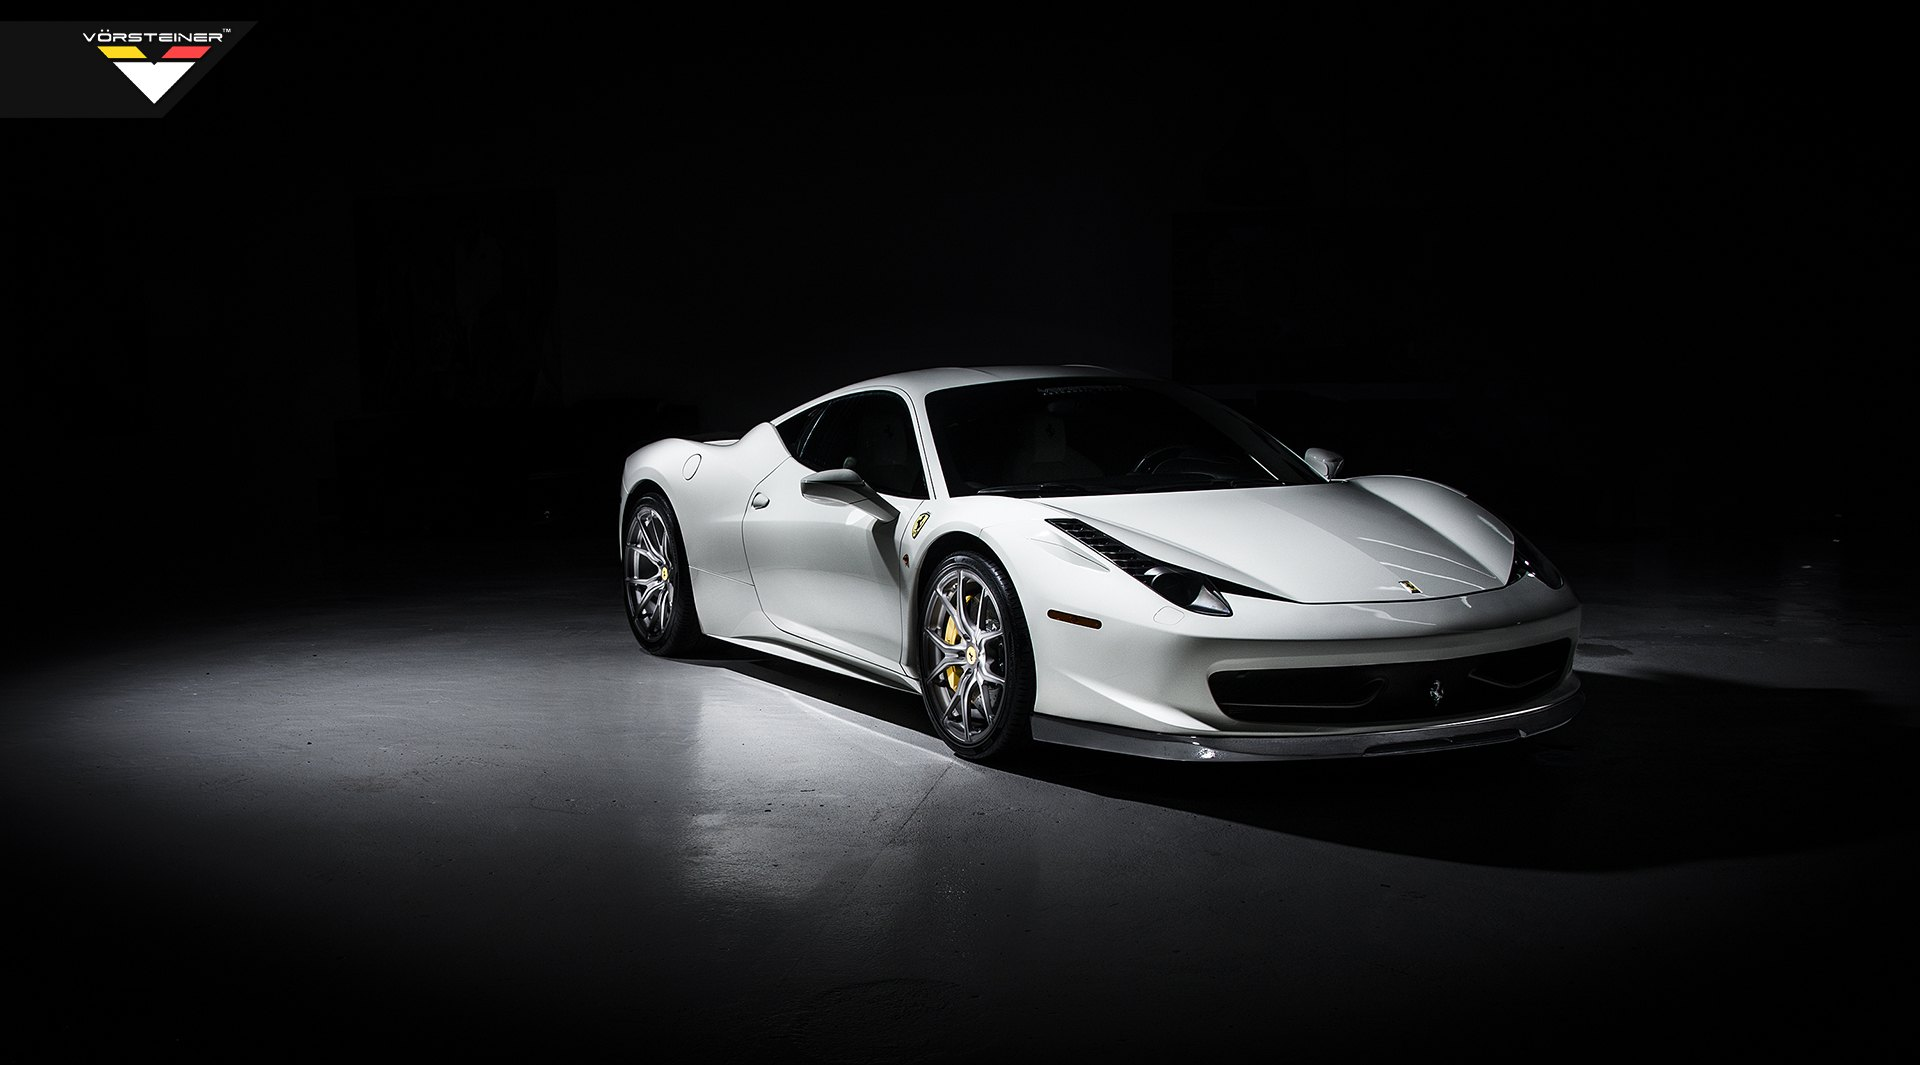
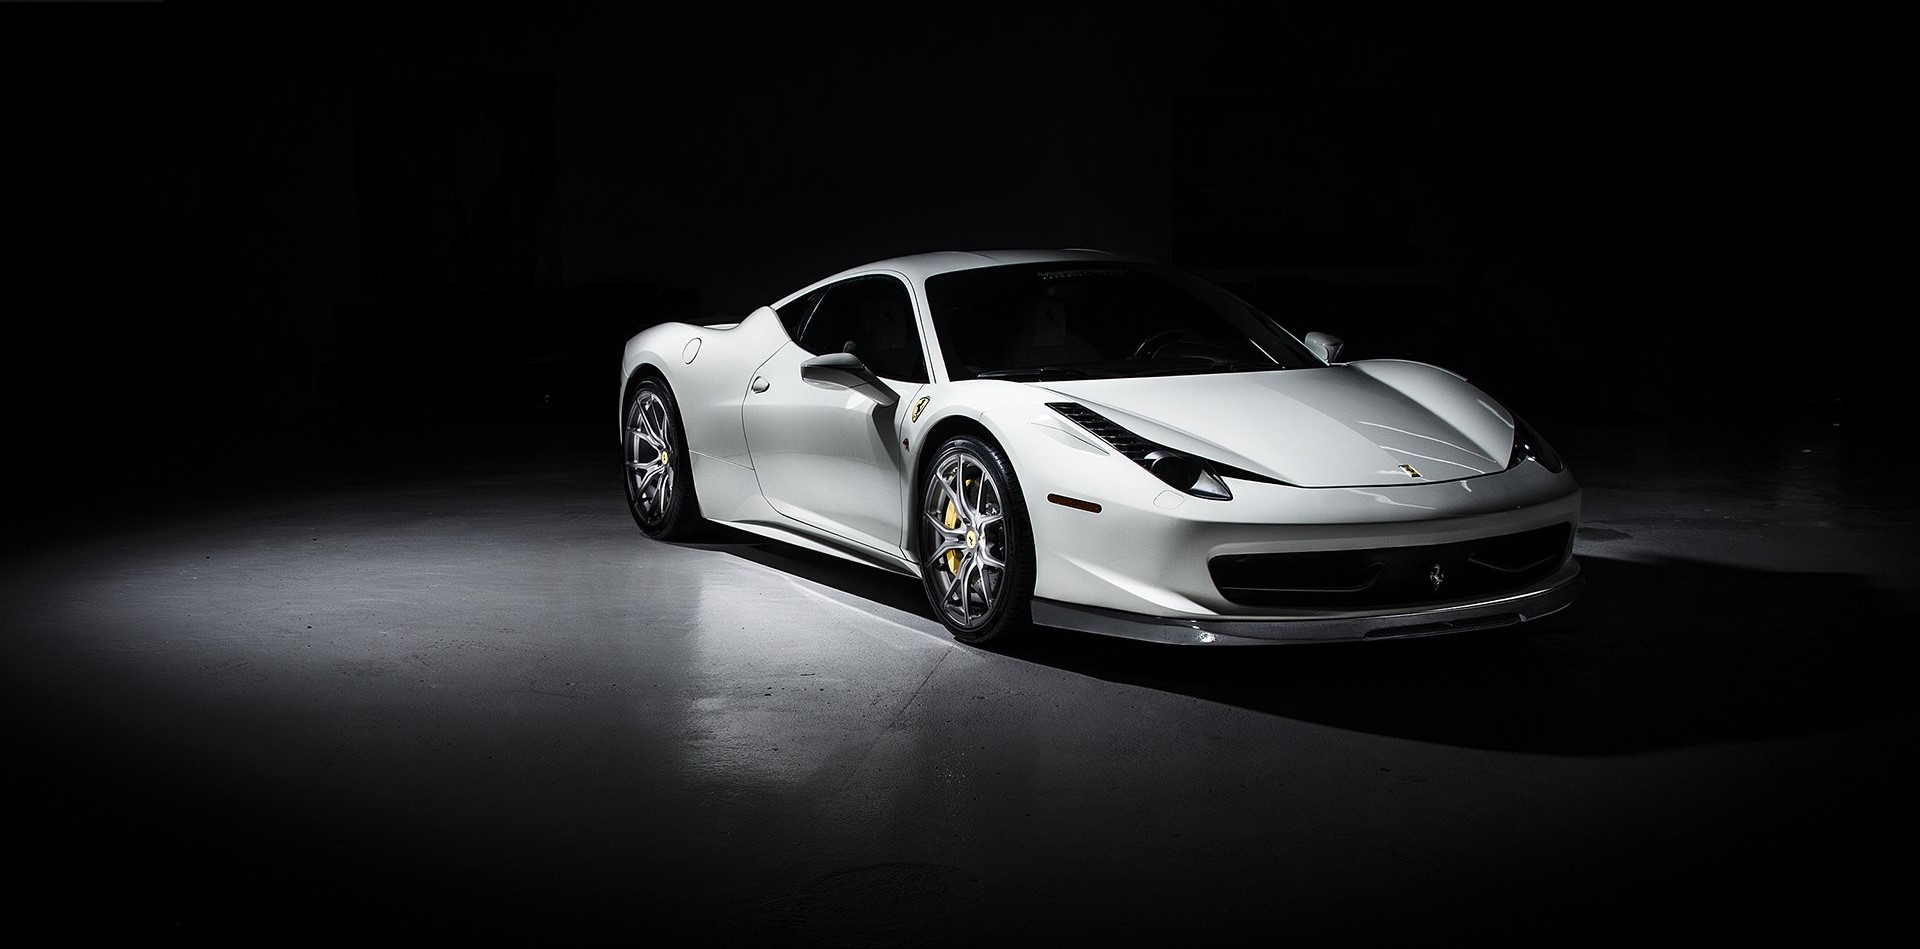
Added images and additional styling

Changed region(s): [[0.0, 0.2445, 0.9375, 0.8556], [0.0312, 0.0306, 0.125, 0.0917]]

diff --git a/index.html b/index.html
@@ -7,44 +7,60 @@
     <title>Document</title>
 </head>
 <body>
-    <div class="wrapper">
-        <div class="header">
-            <h1>text</h1>
+	 <div class="header">
+			<img src="images/logo1.jpg">
+			<div class="header_text">
+				<h1>"We are the competition"</h1>
+			</div>
+	 </div>
+	
+	<div class="top_image">
+		<img src="images/458.jpg">			
+	</div>
 
-        </div>
 
-        <div class="main">
-            <div class="gallery_wrapper">
-                <div class="row">
-                    <div class="column">
-                        <div class="image">
-                            <img src="\images\f40.jpg" \>
-                        </div>
-                        <div class="image">
-                            <img src="\images\f40.jpg" \>
-                        </div>
-                    </div>
-                    <div class="column">
-                        <div class="image">
-                            <img src="\images\f40.jpg" \>
-                        </div>
-                        <div class="image">
-                            <img src="\images\f40.jpg" \>
-                        </div>
-                    </div>
-                </div>
-            </div>
+	<div class="opener">
+		<div class="opener_image_wrapper">
+			<img src=" images/enzo.jpg">
+		</div>
+		<div class="opener_text_wrapper">
+			Lorem ipsum dolor, sit amet consectetur adipisicing elit. Dolorem porro illum 
+			dignissimos perspiciatis similique sapiente excepturi dolore iste illo accusantium tempore
+			 veniam delectus ipsa blanditiis, voluptates quibusdam laboriosam liberoQuam commodi deleniti 
+			 porro ducimus nemo ratione minima tenetur, numquam fuga!
+		</div>
+	</div>
 
-        </div>
 
-        <div class="footer">
-            <h3>text</h3>
-        </div>
+	<div class="content_wrapper">
+		<div class="content">
+			<div class="mid_image_wrapper">
+				<div class="mid_image_one">
+					<img src="images/488_gtb.jpg">			
+				</div>
+				<div class="mid_image_two">
+					<img src="images/f40_wheel.jpg">			
+				</div>
+			</div>		
+		</div>		
+		<div class="content">
+			<div class="mid_image_wrapper">
+				<div class="mid_image_one">
+					<img src="images/f40_wing.jpg">			
+				</div>
+				<div class="mid_image_two">
+					<img src="images/rear_view.jpg">			
+				</div>
+			</div>
+		</div>
+	</div>
 
-    </div>
 
+
+	<div class="footer">
+		Lorem ipsum dolor sit amet consectetur, adipisicing elit. Velit saepe rerum harum quia, inventore porro
+		 placeat unde sapiente accusamus quidem blanditiis nemo dolorem, aperiam repellendus. 
+		 Recusandae eaque assumenda unde hic!
+	</div>
 </body>
 </html>
-
-
-

diff --git a/styles.css b/styles.css
@@ -1,68 +1,75 @@
-* {
-    margin: 0px;
-    padding: 0px
-}
-
 body {
-    background-color: white;
-}
-
-.wrapper {
-    width: 100vw;
-    height: 100vh;
-    display: flex;
-    flex-direction: column;
-}
-
-.wrapper > .header {
-    display: flex;
-    height: 10%;
-    justify-content: center;
     background-color: black;
-    color: white;
-}
-
-.wrapper > .main {
-    height: 100%;
-    background-color: beige;
-    justify-content: center;
-}
-
-.wrapper > .main > .gallery_wrapper {
-    justify-content: center;
-}
-
-
-
-.wrapper > .main > .gallery_wrapper > .row {
+    margin-left: 109px;
+    margin-right: 109px;
+    padding: 0px;
+ }
+ 
+ .header {
     display: flex;
-    height: auto;
-    justify-content: center;
     flex-wrap: wrap;
-}
-
-.wrapper > .main > .gallery_wrapper > .row > .column {
-    column-width: auto;
-  }
-
-.wrapper > .main > .gallery_wrapper > .column > img {
-        vertical-align: middle;
-        width: 100%;
-}
-
-@media screen and (max-width: 800px) {
-    .column.wrapper > .main > .gallery_wrapper > .row > .column         {
-      flex: 50%;
-      max-width: 50%;
-      max-height: 50%;
-    }
-}
-
-
-.wrapper > .footer {
-    display: flex;
-    height: 10%;
+    flex-direction: column;
     justify-content: center;
     background-color: black;
+
+ }
+
+ .header > img {
+    width: 100% 
+ }
+ 
+ .header > .header_text > h1 {
+    display: flex;
+    justify-content: center;
+    color: white;
+    font-size: 40px;
+ }
+ 
+.top_image > img {
+    width: 100%;
+ }
+ 
+.opener {
+    display: flex;
+    width: 50vw;
     color: white;
 }
+
+.opener > .opener_image_wrapper > img {
+    height: 200px;
+    width: 200px;
+    object-fit: cover;
+}
+
+
+.content_wrapper > .content >.mid_image_wrapper {
+    display: flex;
+    flex-wrap: wrap;
+    justify-content: center;
+    gap:50px
+
+}
+
+.content_wrapper > .content > .mid_image_wrapper > .mid_image_one > img {
+    width:  500px;
+    height: 500px;
+    object-fit: cover;
+}
+
+.content_wrapper > .content > .mid_image_wrapper > .mid_image_two > img {
+    width: 500px;
+    height: 500px;
+    object-fit: cover;
+}
+
+
+ 
+ .footer {
+    display: flex;
+    width: 100%;
+    height: 50px;
+    background-color: black;
+    color: white;
+    justify-content: center;
+ }
+ 
